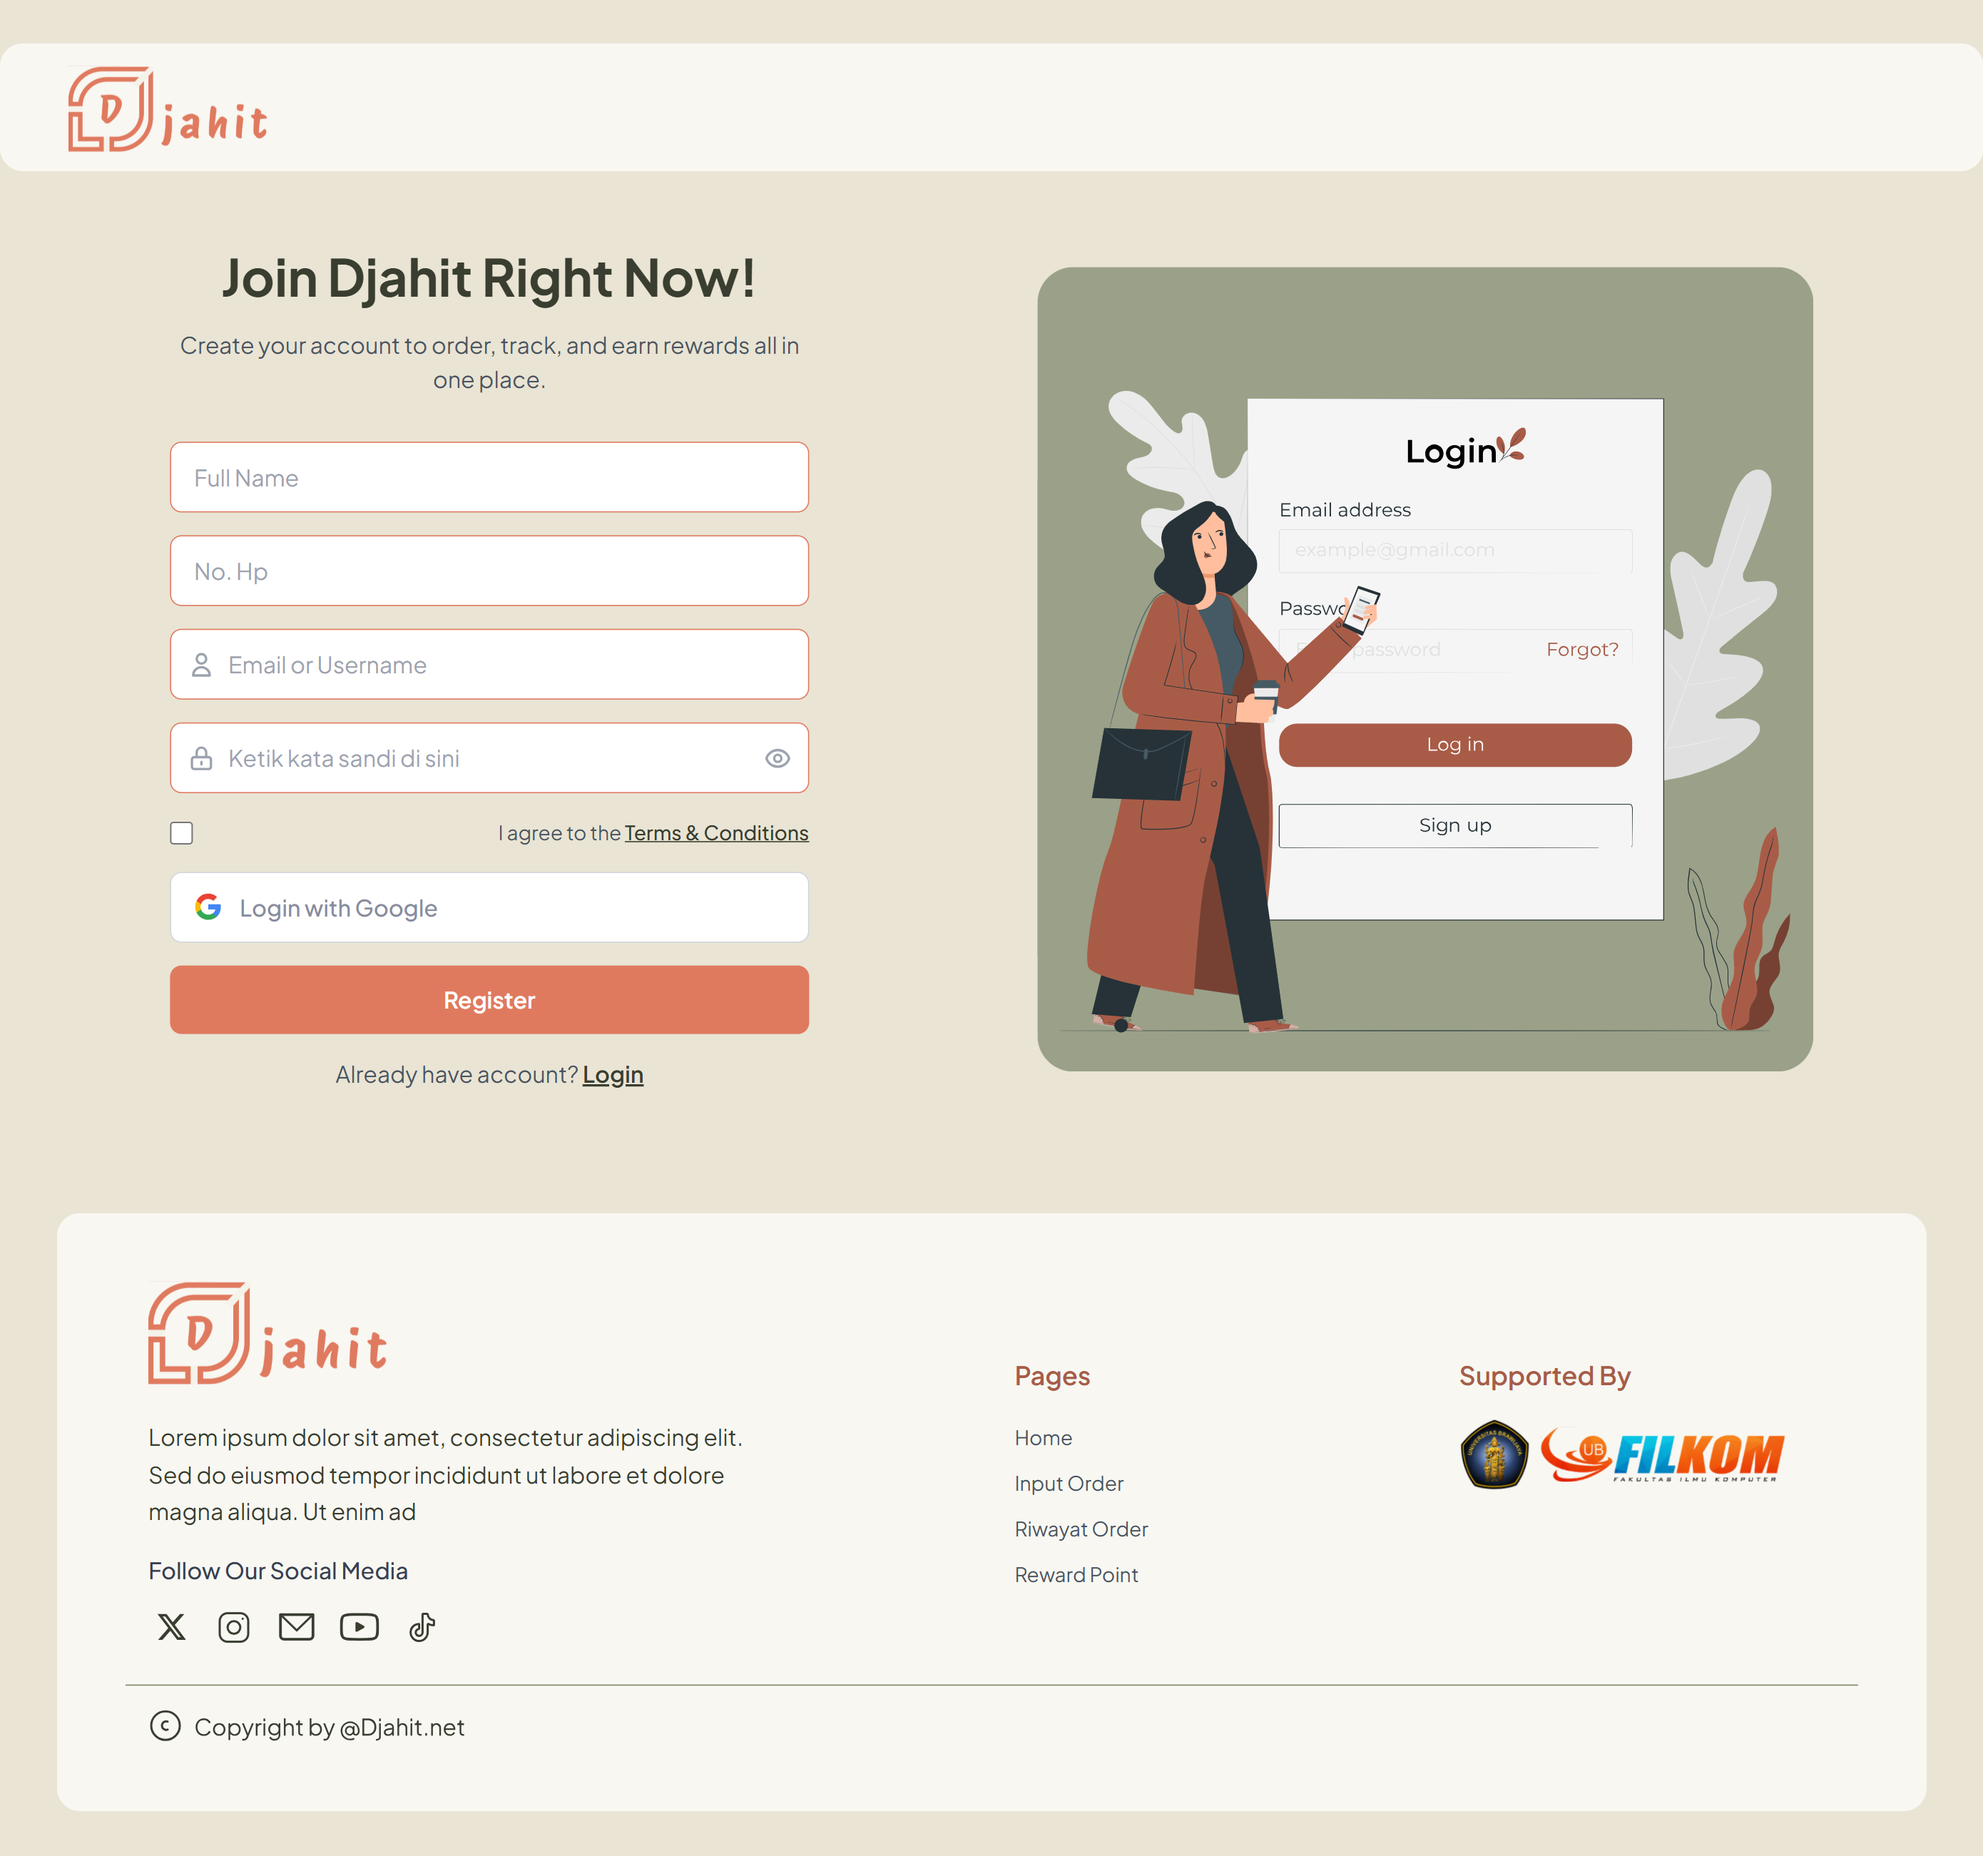
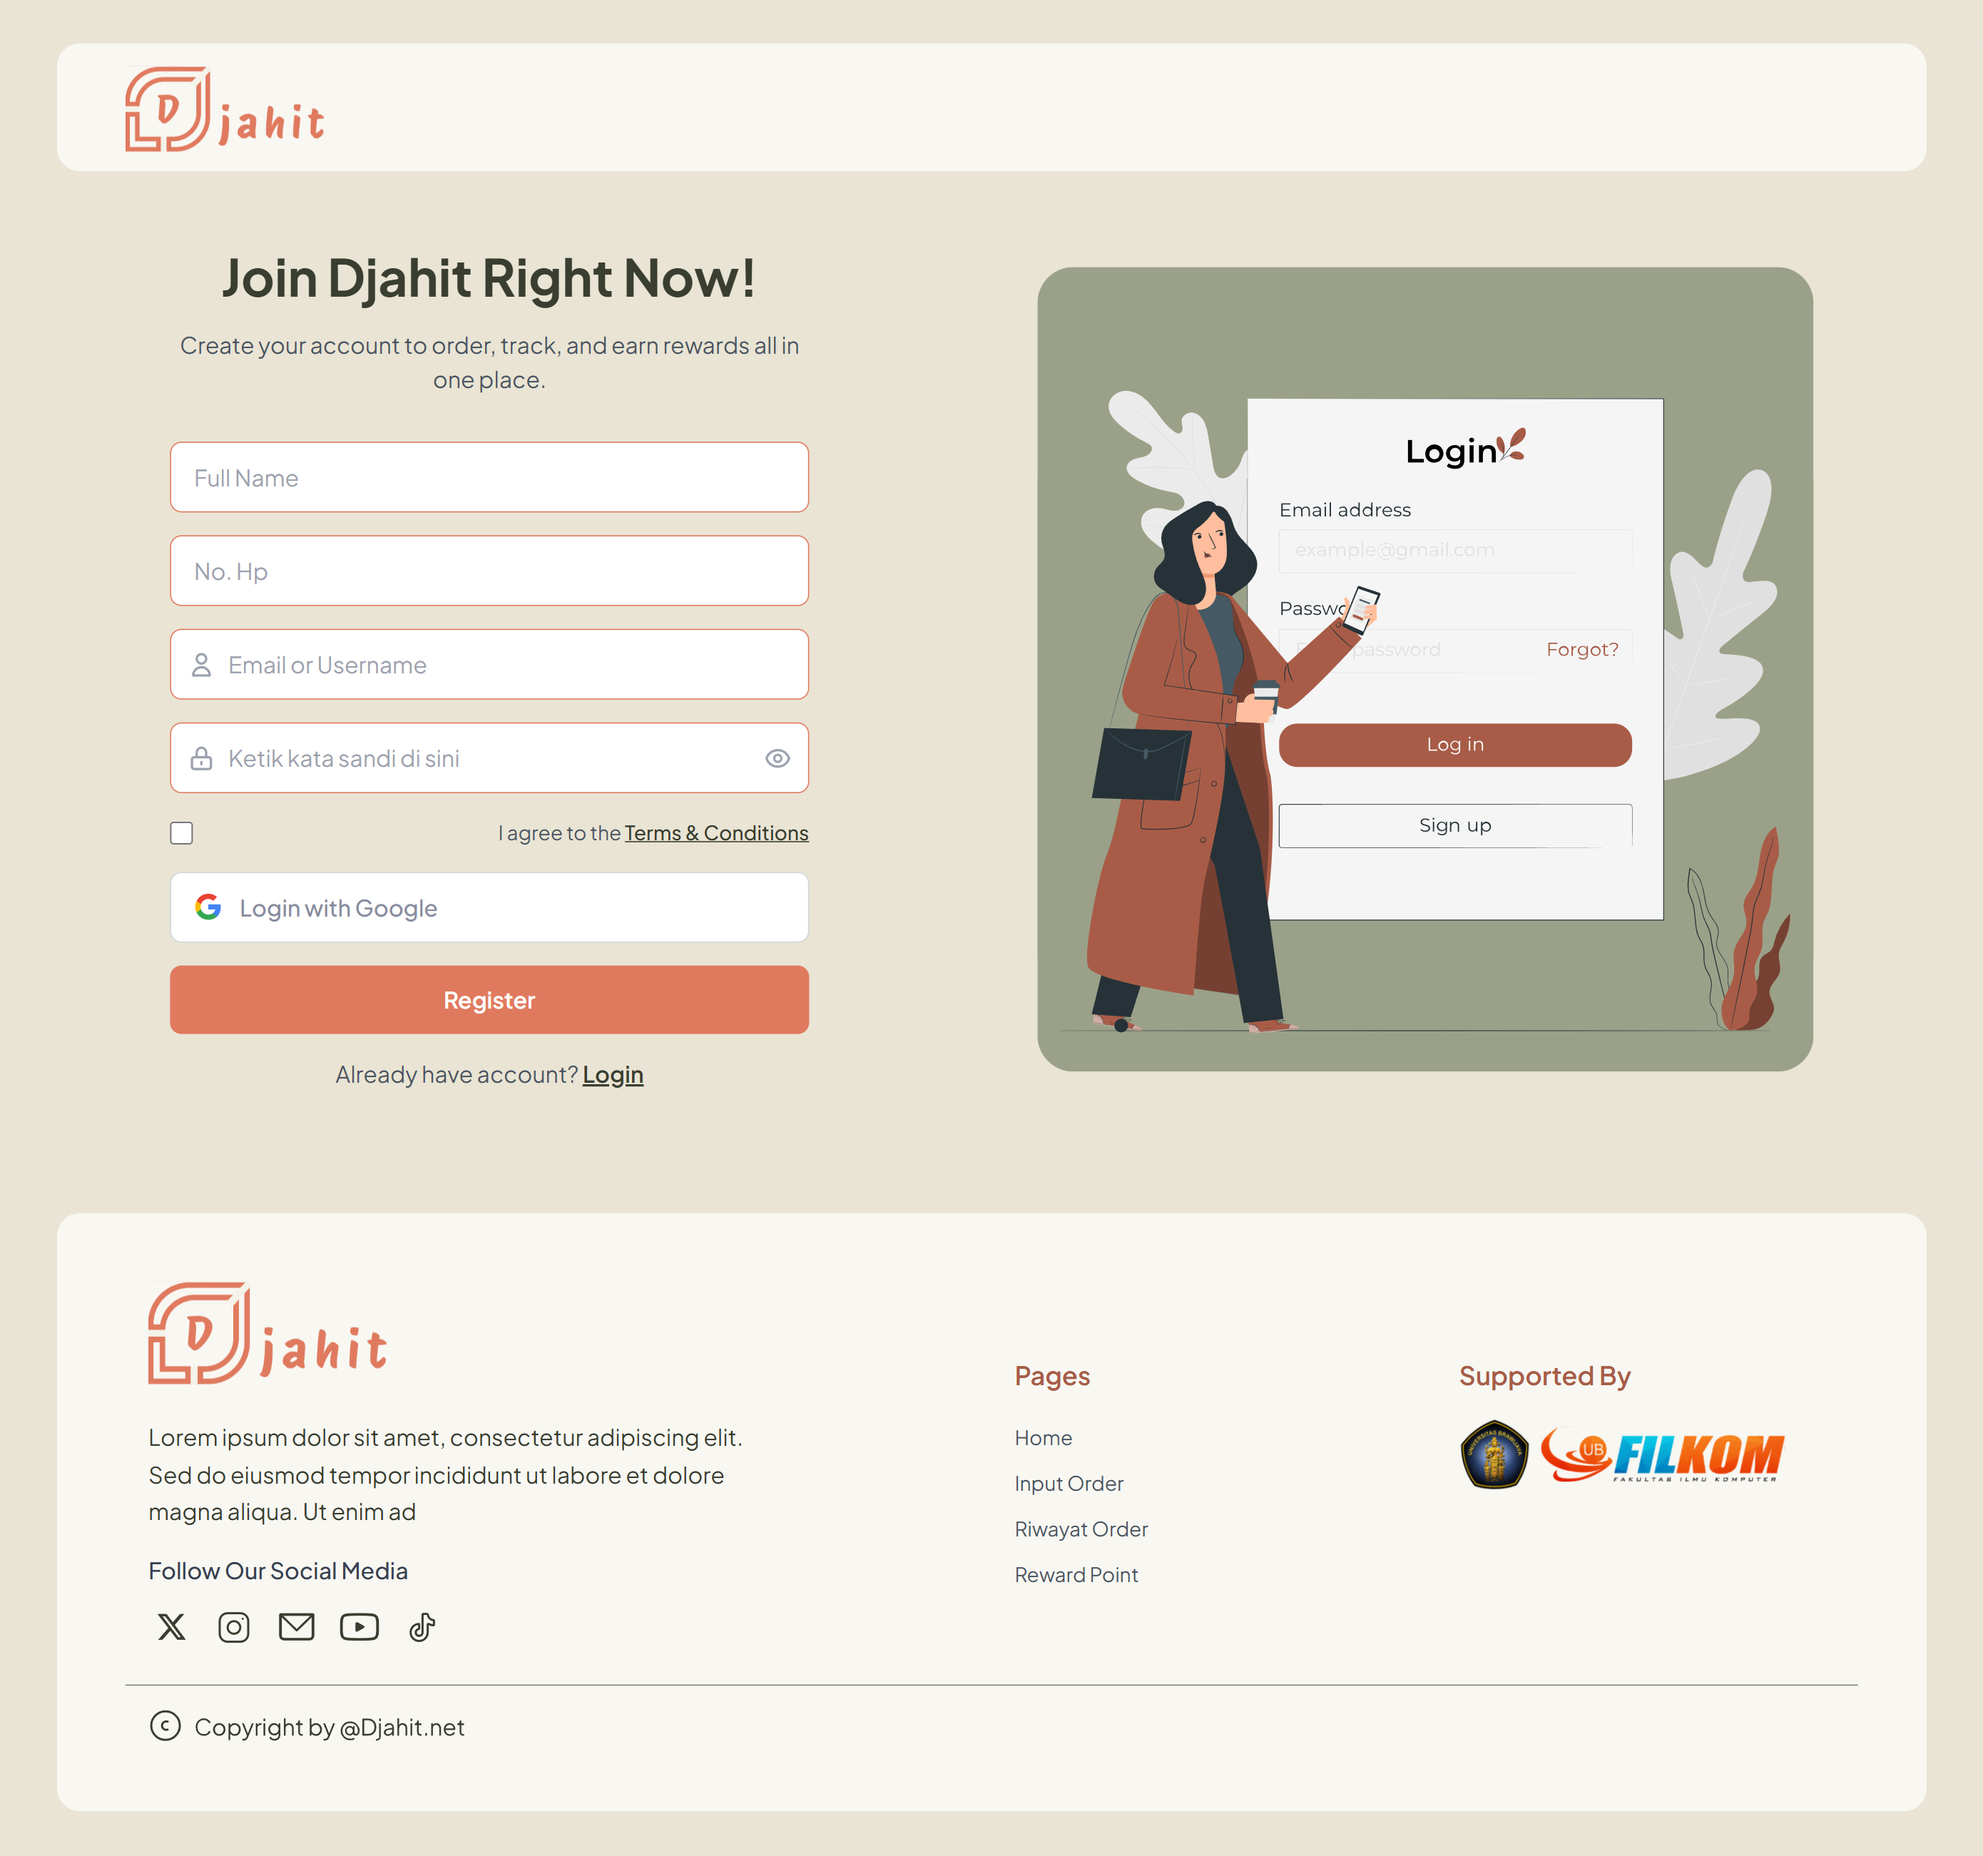
minor change to navbar

Changed region(s): [[0.0, 0.0, 0.1547, 0.0934], [0.959, 0.0, 1.0, 0.0934]]

diff --git a/frontend/page/navbar.html b/frontend/page/navbar.html
@@ -1,7 +1,7 @@
-<nav class="w-full mx-auto" style="height: 90px; background-color: #E9E4D4;">
-        <div class="max-w-[1450px] rounded-[16px] mt-[30px] mx-auto px-2 relative h-full" style="background-color: #F8F7F2;">
+<nav class="w-full px-10 mx-auto" style="height: 90px; background-color: #E9E4D4;">
+        <div class="w-full px-16 rounded-[16px] mt-[30px] mx-auto px-6 relative h-full" style="background-color: #F8F7F2;">
             <!-- Djahit Logo -->
-            <div class="absolute left-12 top-4">
+            <div class="absolute left-12 top-4 my-auto">
                 <img src="../assets/img/DjahitLogo.svg" alt="Djahit Logo">
             </div>
         </div>

diff --git a/README.md b/README.md
@@ -20,18 +20,19 @@
 4. Install the Live Server extension.  
 5. Once the extension is installed, you'll see a "Go Live" button at the bottom of the window—click it. 
 ![go live](golive.png)
-6. When the Live Server starts running, you will be automatically directed to the *register.html* page.  
+6. When the Live Server starts running, you will be automatically directed to the *login.html* page.  
 7. The page should then appear exactly as shown in the image provided below.
 
 
 > Below is the actual appearance of our website, specifically the input form page.
 
-![web preview](web_preview.png)
+![web preview](web_preview.png) 
+
 
 >_That's it, Thank you and i hope you have good day._ 
 _here is cute cat gif_
 
-![GIF 4](https://media4.giphy.com/media/v1.Y2lkPTc5MGI3NjExaXQ1c3dkbTRqNmRoeHNrcG1ldnRpeTlmaHQyYXlkeWNhbXRramQ2YiZlcD12MV9pbnRlcm5hbF9naWZfYnlfaWQmY3Q9Zw/eIn3M9YLHetZbKICSc/giphy.gif)
-![GIF 2](https://media3.giphy.com/media/v1.Y2lkPTc5MGI3NjExaGJ6Mng5Mmt4MjlvbW1oM29wN3IybjQ2ZjhzYTdlbXlmbzZteDhibSZlcD12MV9pbnRlcm5hbF9naWZfYnlfaWQmY3Q9Zw/NfzERYyiWcXU4/giphy.gif)
+![Love cat](https://media4.giphy.com/media/v1.Y2lkPTc5MGI3NjExaXQ1c3dkbTRqNmRoeHNrcG1ldnRpeTlmaHQyYXlkeWNhbXRramQ2YiZlcD12MV9pbnRlcm5hbF9naWZfYnlfaWQmY3Q9Zw/eIn3M9YLHetZbKICSc/giphy.gif)
+![happy cat](https://media3.giphy.com/media/v1.Y2lkPTc5MGI3NjExaGJ6Mng5Mmt4MjlvbW1oM29wN3IybjQ2ZjhzYTdlbXlmbzZteDhibSZlcD12MV9pbnRlcm5hbF9naWZfYnlfaWQmY3Q9Zw/NfzERYyiWcXU4/giphy.gif)
 ![cute cat](https://media0.giphy.com/media/v1.Y2lkPTc5MGI3NjExajBubW1ldGN4bXRpOXp2YmI0OTRxZ3A1dWRmbmtuMXg1cnkzODA1cyZlcD12MV9pbnRlcm5hbF9naWZfYnlfaWQmY3Q9Zw/l2Sq5GffrCyUMEXjW/giphy.gif)
 ![GIF 3](https://media1.giphy.com/media/v1.Y2lkPTc5MGI3NjExcTRhZjE4bjBvc3R0cHI4NDNhMmoyM2g0c3R5MTF1aHNoOWY3NzVveiZlcD12MV9pbnRlcm5hbF9naWZfYnlfaWQmY3Q9Zw/3oz8xsaLjLVqVXr3tS/giphy.gif)
